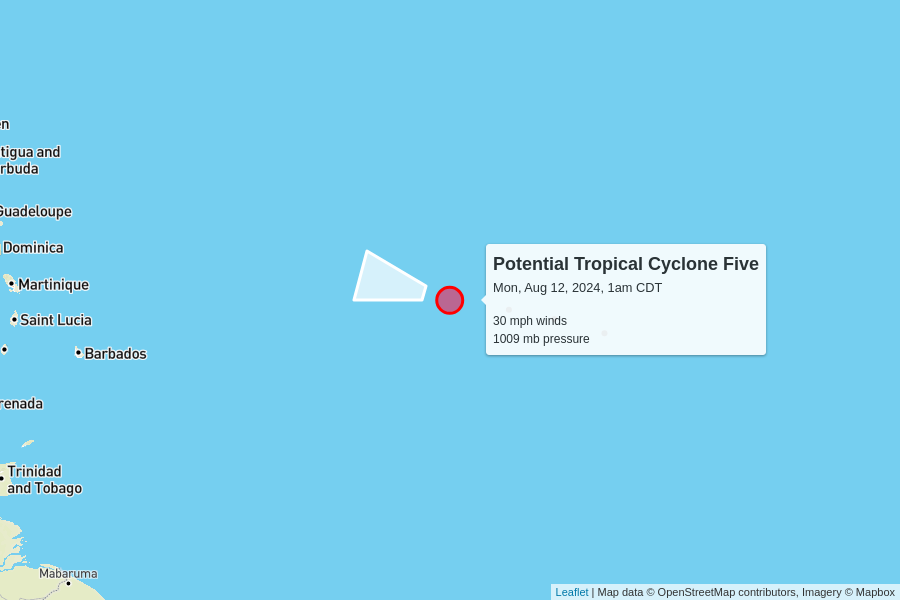
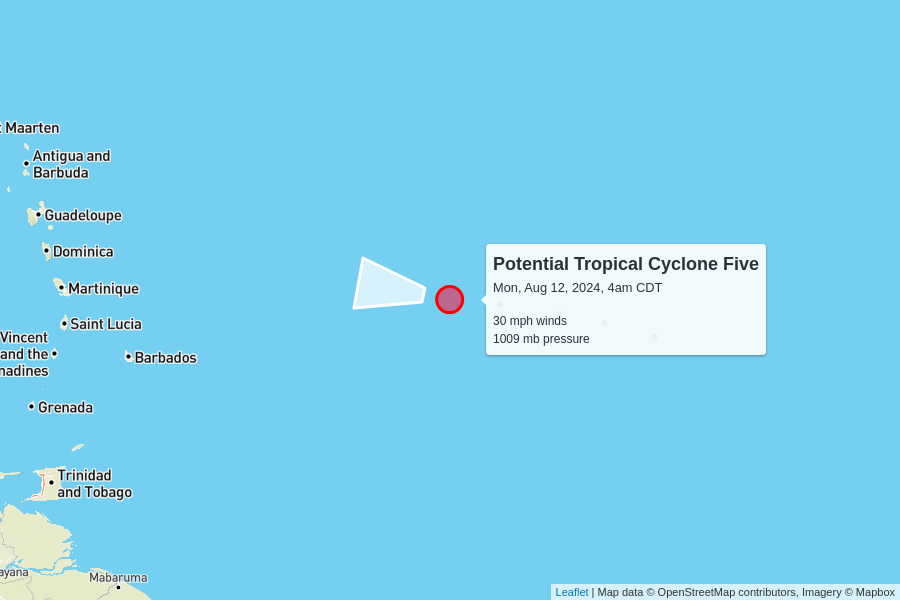
automatic update

diff --git a/docs/index.html b/docs/index.html
@@ -102,7 +102,7 @@
         <td colspan="6" class="storm category-0" >
           <h2>
             Potential Tropical Cyclone Five
-            <p class="updated">last updated <span data-time>2024-08-12T06:00:00.000Z</span></p>
+            <p class="updated">last updated <span data-time>2024-08-12T09:00:00.000Z</span></p>
           </h2>
         </td>
       </tr>
@@ -120,9 +120,9 @@
         <td>30 mph<br>0 mph since last update</td>
         <td>1009 mb<br>0 mb since last update</td>
         <td>
-          23 mph to the west-northwest
+          25 mph to the west
           <br/>
-          <span style="display: inline-block; font-size: 1.5em; transform: rotate(285deg);">↑</span>
+          <span style="display: inline-block; font-size: 1.5em; transform: rotate(280deg);">↑</span>
         </td>
         <td><a href="https://raw.githubusercontent.com/mgwalker/atlantic-hurricanes/main/data/csv/AL052024.csv">AL052024.csv</a></td>
         <td><a href="https://www.nhc.noaa.gov/archive/2024/FIVE.shtml?">NHC advisories</a></td>
